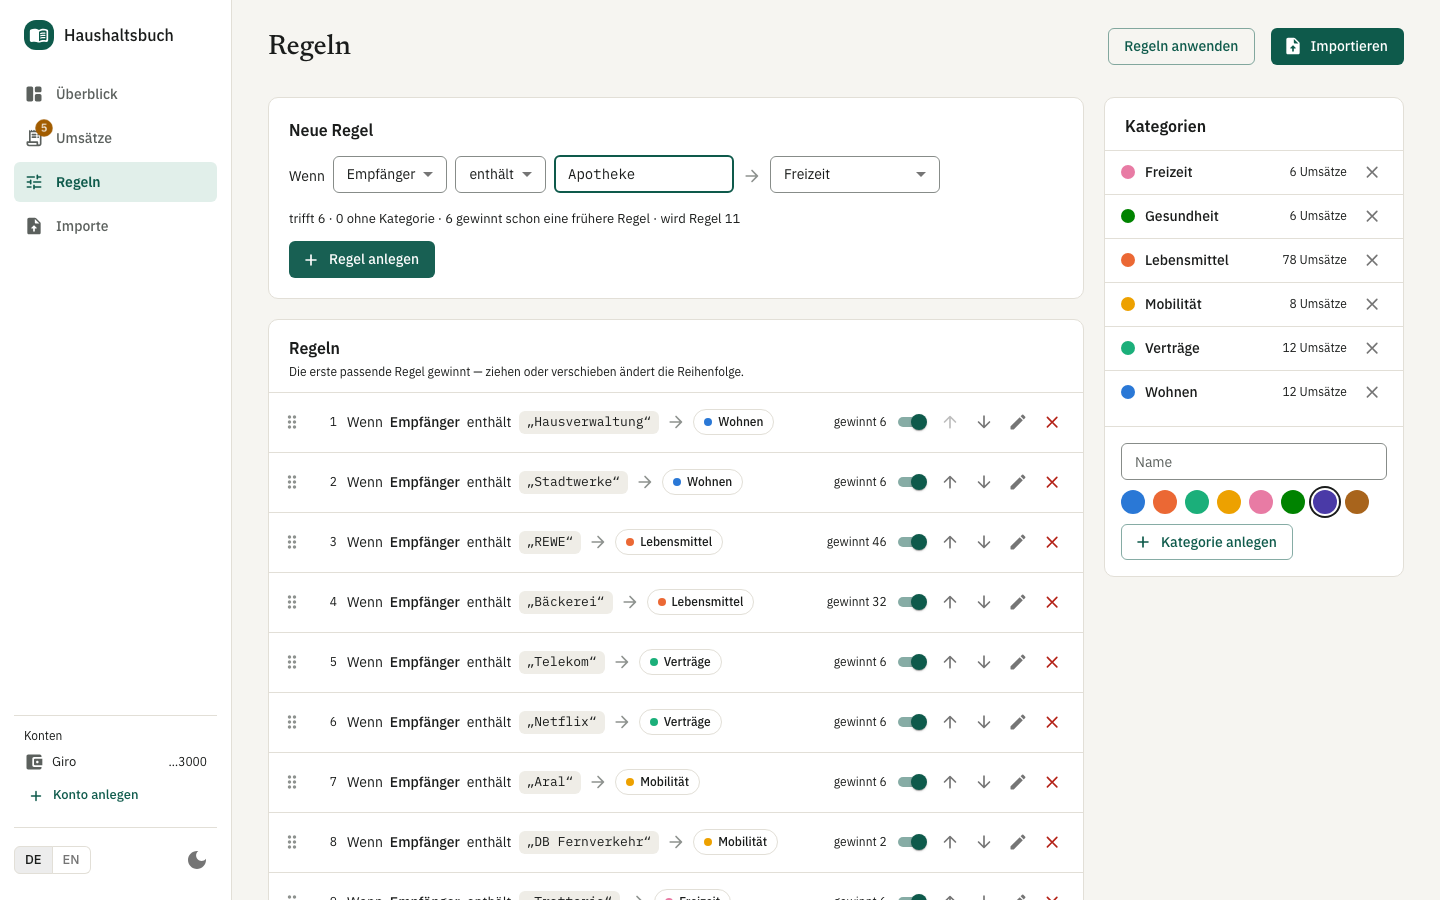
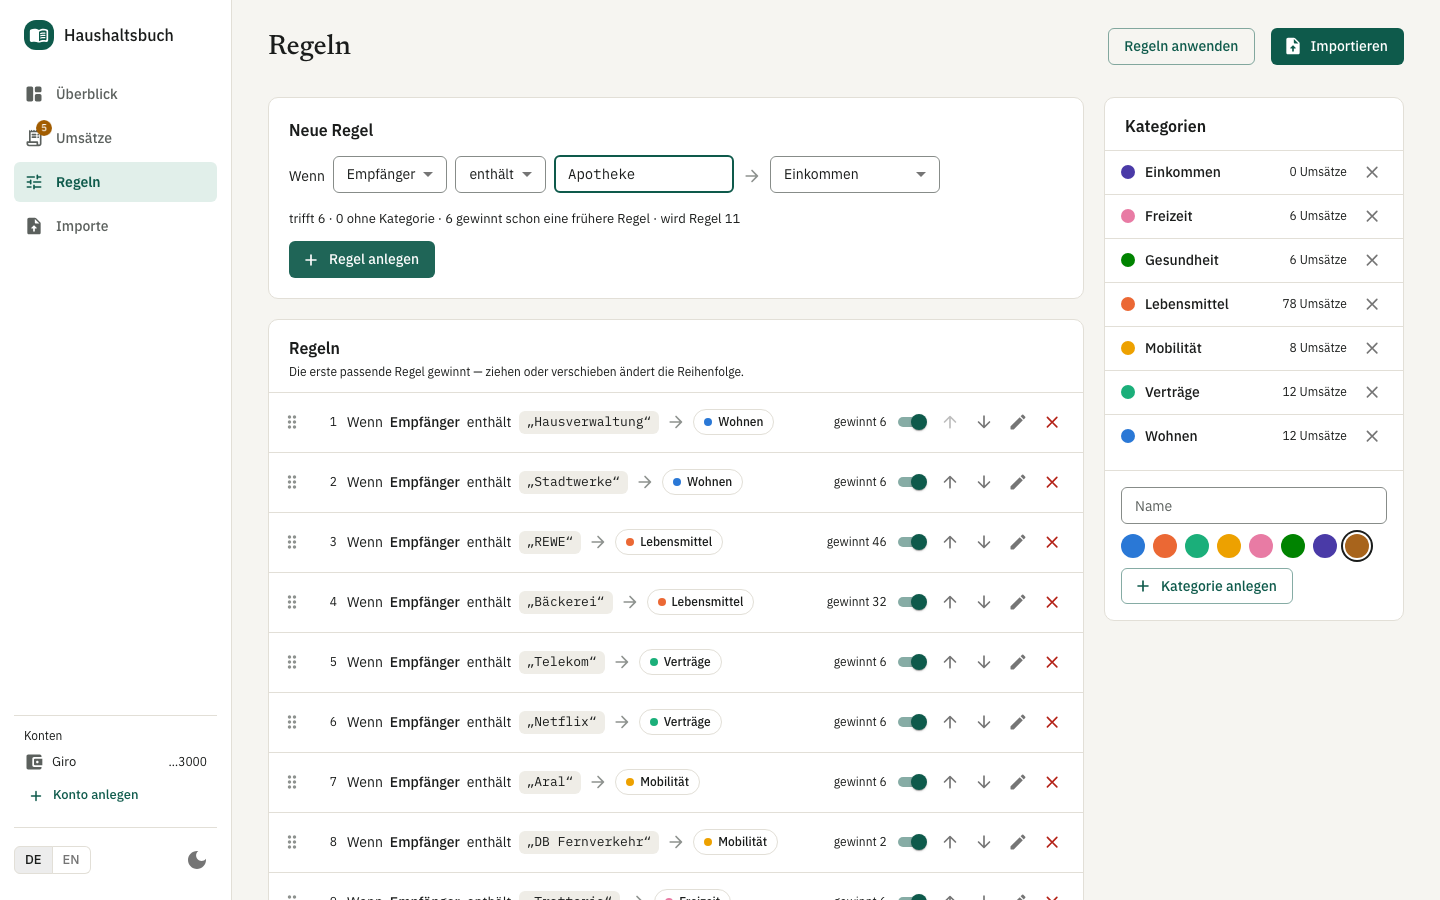
test(web): show „Immer so“ in the README demo, and refresh the images
The demo now sorts the salary by hand into an "Einkommen" category that has no rule and
holds a frame on the „Immer so“ offer, which PR #35 added. The ledger screenshot stays
on the top of the list, taken before the pick, so it keeps its heading.

diff --git a/apps/web/e2e/docs-images.capture.ts b/apps/web/e2e/docs-images.capture.ts
@@ -5,6 +5,8 @@ import { fileURLToPath } from 'node:url';
 
 import { expect, type APIRequestContext, type Page, test } from '@playwright/test';
 
+import { ledgerRow, pickCategory } from './support';
+
 /**
  * Regenerates the README's screenshots and its animated demo: `pnpm docs:images`.
  *
@@ -174,6 +176,8 @@ const SETUP: ReadonlyArray<readonly [string, readonly string[], number]> = [
   ['Mobilität', ['Aral', 'DB Fernverkehr'], 15_000],
   ['Freizeit', ['Trattoria'], 6_000],
   ['Gesundheit', ['Apotheke'], 3_000],
+  // No rule on purpose: the salary is sorted by hand, which is where „Immer so“ comes in.
+  ['Einkommen', [], 0],
 ];
 
 async function seedRulesAndBudgets(request: APIRequestContext): Promise<void> {
@@ -187,7 +191,7 @@ async function seedRulesAndBudgets(request: APIRequestContext): Promise<void> {
         data: { field: 'counterpartyName', operator: 'contains', value, categoryId: category.id },
       });
     }
-    for (const m of ['2026-08', '2026-09', month]) {
+    for (const m of limit > 0 ? ['2026-08', '2026-09', month] : []) {
       await request.put(`/api/budgets/${m}/${category.id}`, { data: { amountCents: limit } });
     }
   }
@@ -267,6 +271,12 @@ test('captures the README images', async ({ page, request }, testInfo) => {
   await page.getByRole('navigation').getByRole('link', { name: 'Umsätze' }).click();
   await expect(page.getByRole('main').getByRole('listitem').first()).toBeVisible();
   await page.screenshot({ path: resolve(IMAGES, 'transactions.png') });
+  // A category set by hand, and the offer to make it a rule: a demo frame once the
+  // snackbar has finished sliding in.
+  await pickCategory(page, ledgerRow(page, 'Beispiel AG').first(), 'Einkommen');
+  await expect(page.getByRole('button', { name: /^Immer so:/u })).toBeVisible();
+  await page.waitForTimeout(400);
+  await frame(page, frames, framesDir);
   await page.getByRole('navigation').getByRole('link', { name: 'Importe' }).click();
   await expect(page.getByText('Umsaetze-2026.csv')).toBeVisible();
   await page.screenshot({ path: resolve(IMAGES, 'imports.png') });
